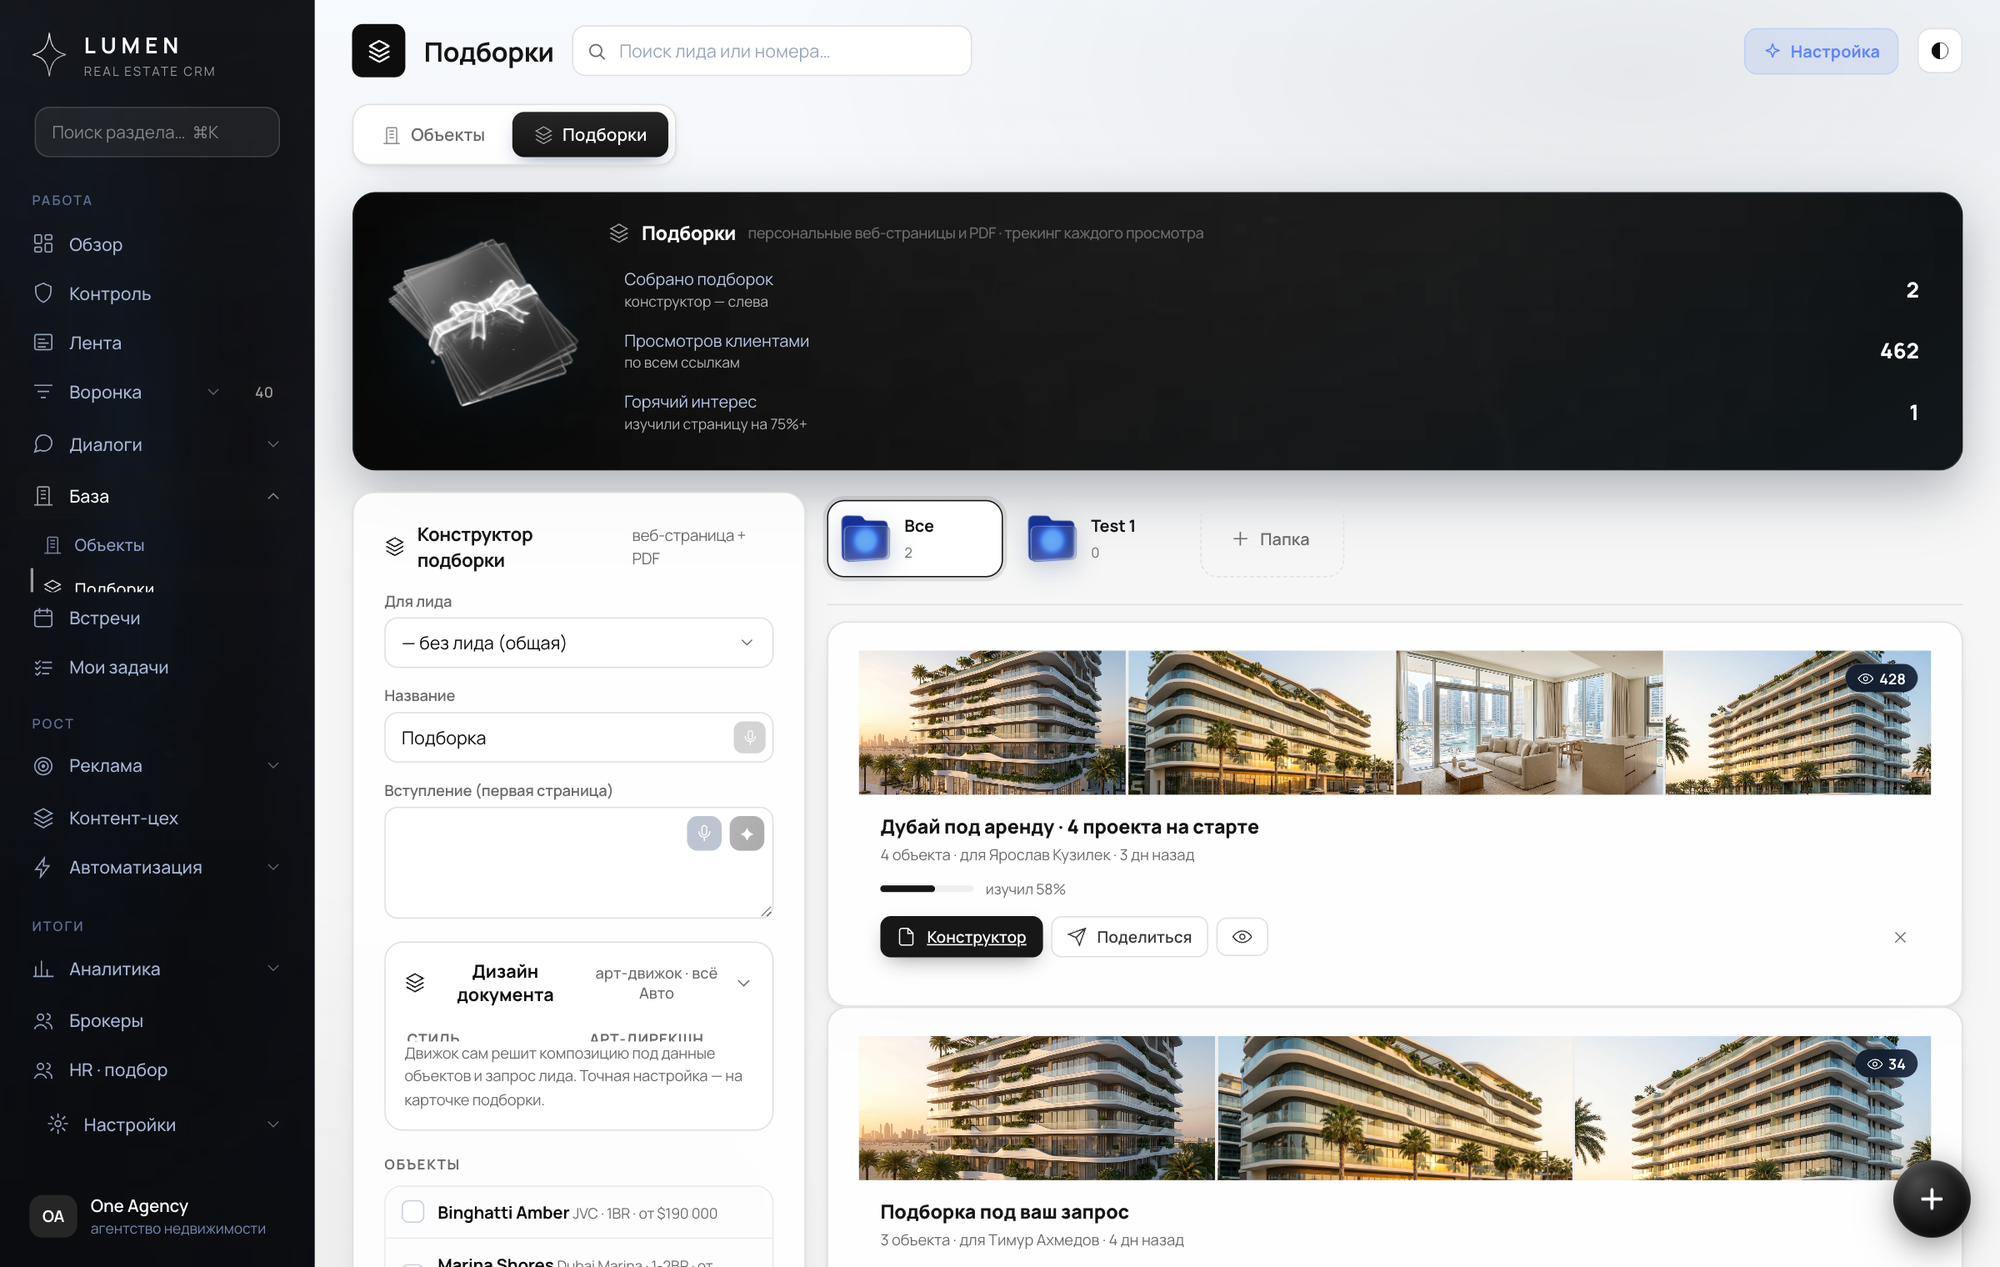
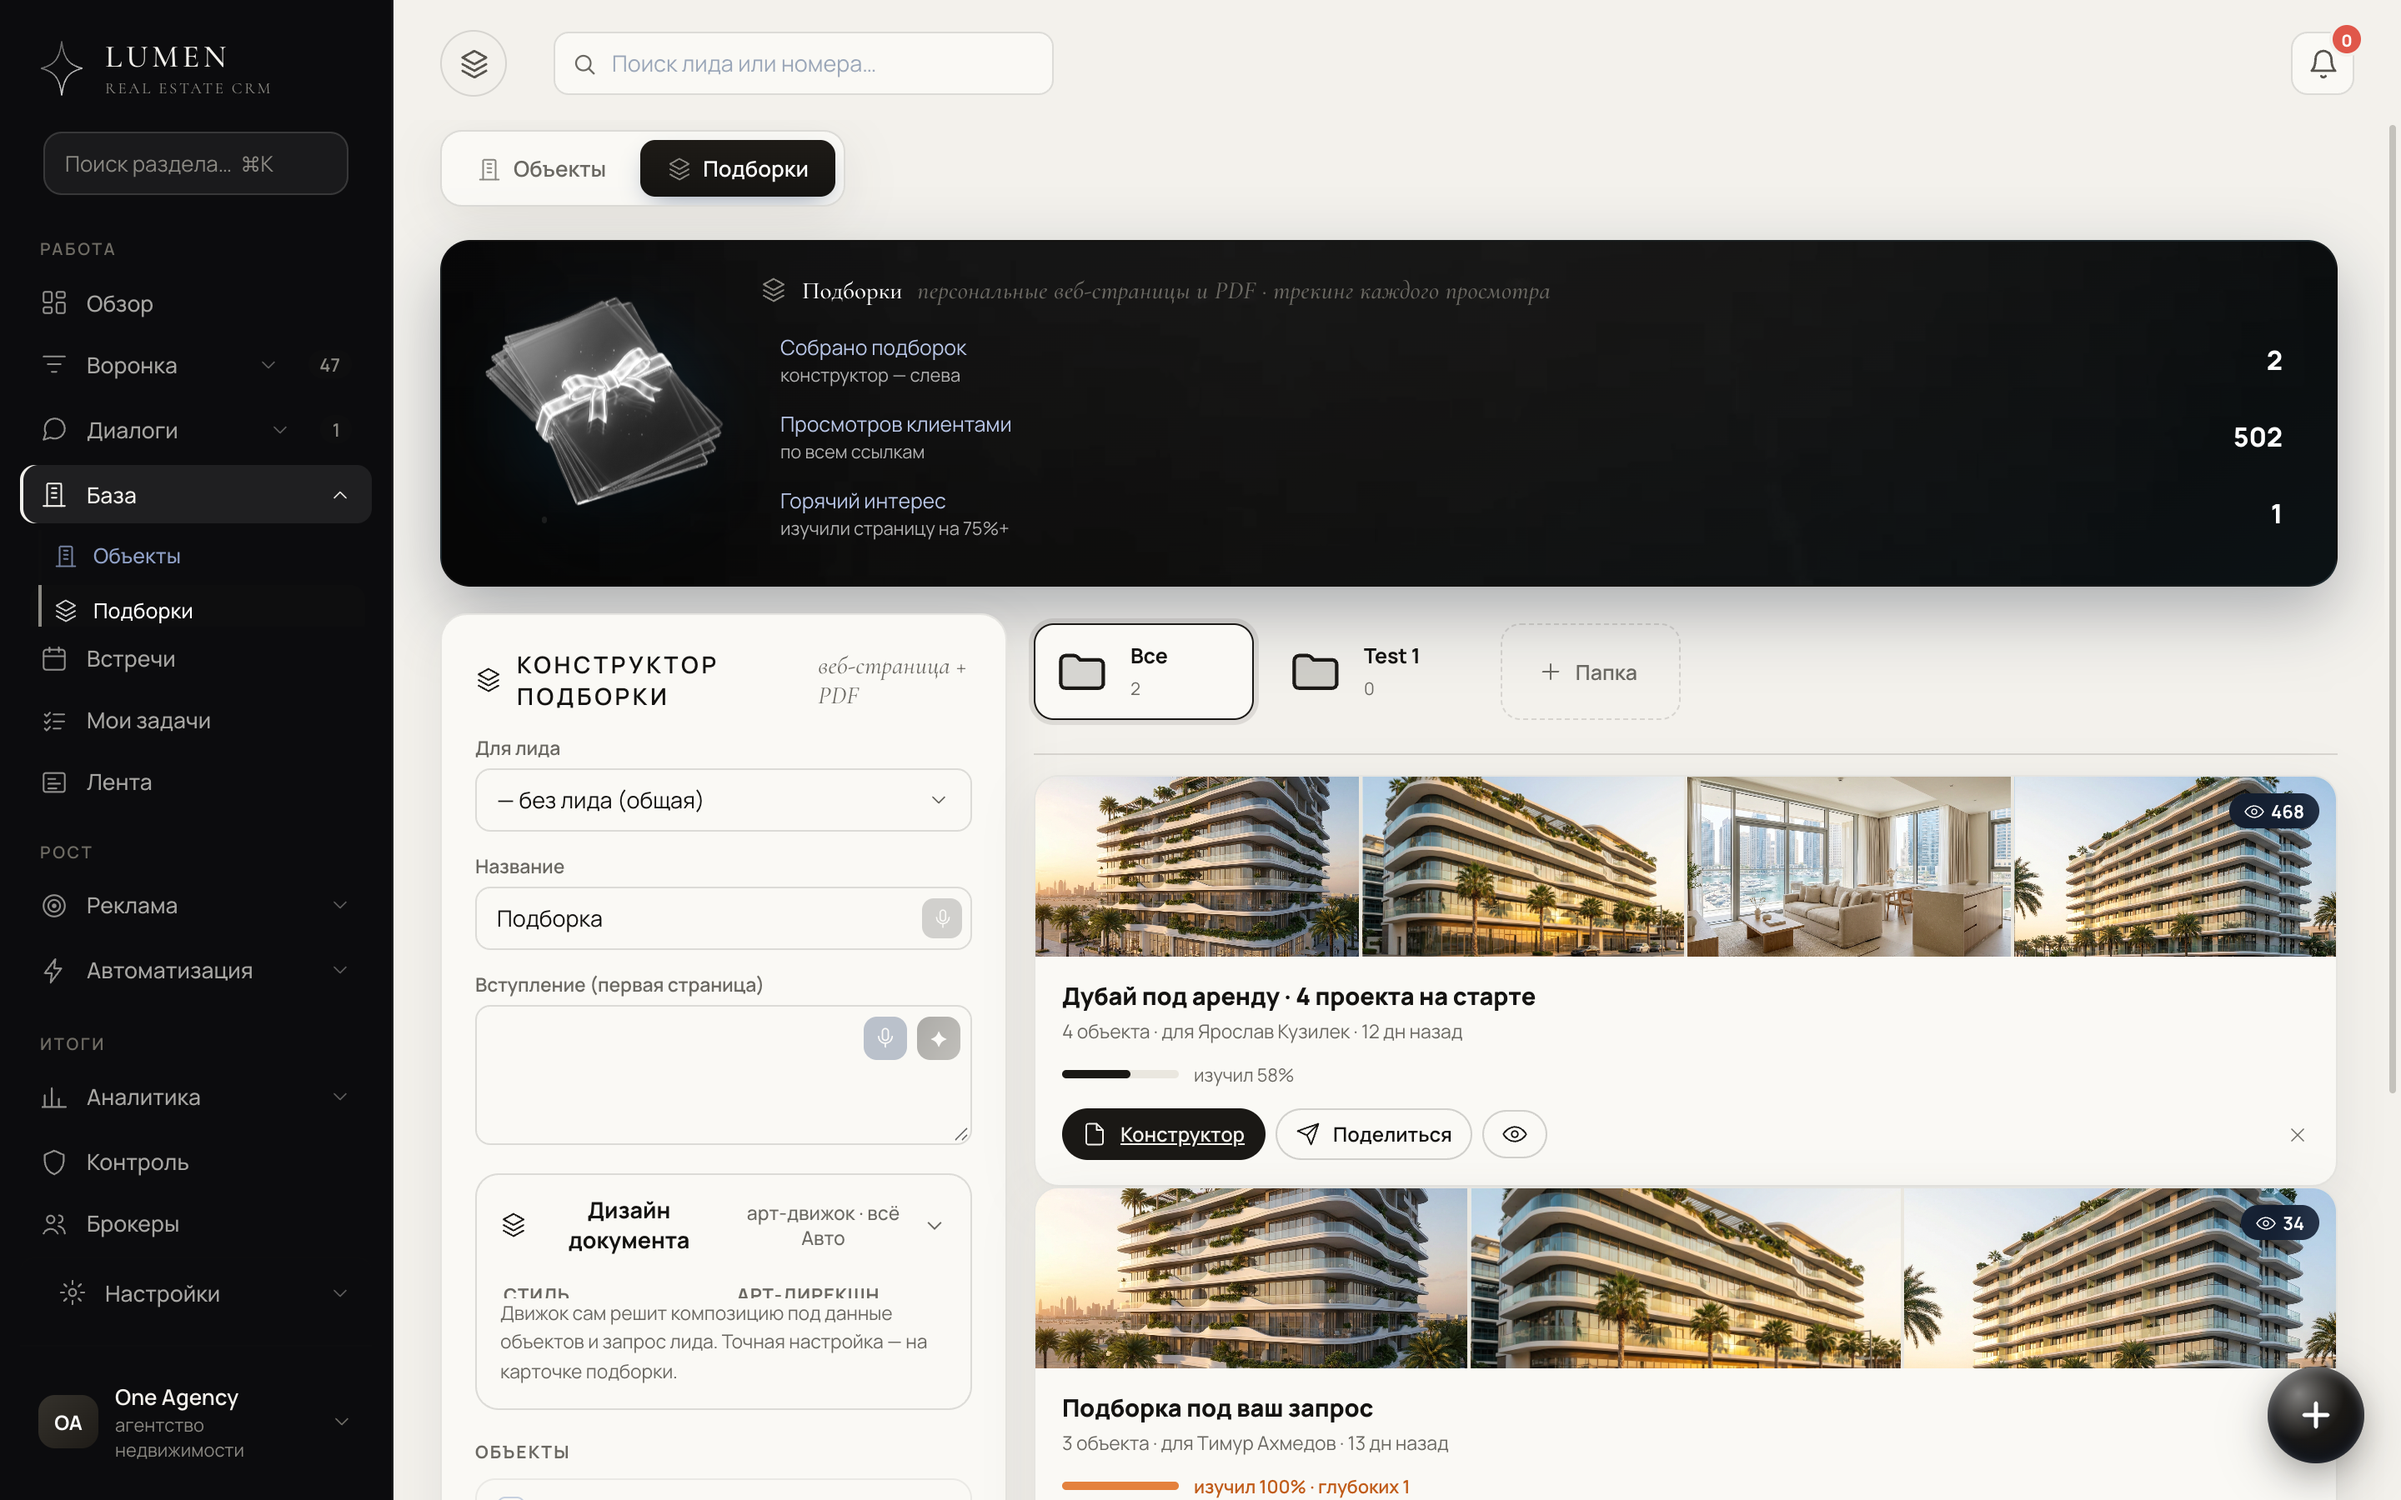
fix(crypto auto-verify): TronGrid API-ключ (Railway режется без него) + админ-настройка ключей без редеплоя; онбординг: живые скриншоты в теме Ателье
- index.js: tronFetchOpts шлёт TRON-PRO-API-KEY (env TRON_API_KEY или реестр) на обе TronGrid-выборки (тик + сверка) → авто-зачисление на проде работает
- admin: /api/admin/crypto-keys (GET статус / POST ключи tron+etherscan в реестр) + UI-форма и статус в блоке «Крипто-платежи»
- онбординг: theme-atelier.png + cap-ai/collections/dialogs/sequences пересняты из ЖИВОЙ CRM в теме Ателье (крем+serif+тёмный сайдбар); ?v=atl кэш-бас; onboard v37

diff --git a/server/index.js b/server/index.js
@@ -2639,6 +2639,10 @@ const CRYPTO_TRON = process.env.CRYPTO_TRON_ADDRESS || 'TKsspQfKNJvcREryLtMG1Hsx
 const CRYPTO_ETH  = process.env.CRYPTO_ETH_ADDRESS  || '0x6dc20b29ea59fd722e752e65cd0c0059ee5c3b25';
 const USDT_TRC20  = 'TR7NHqjeKQxGTCi8q8ZY4pL8otSzgjLj6t';   /* USDT (Tron) контракт */
 const USDT_ERC20  = '0xdac17f958d2ee523a2206206994597c13d831ec7'; /* USDT (Ethereum) контракт */
+/* TronGrid с датацентр-IP (Railway) без ключа режется рейт-лимитом → пустой ответ → авто-зачисление не срабатывает.
+   Бесплатный ключ trongrid.io передаём заголовком TRON-PRO-API-KEY. Ключ из env или реестра (задаётся в админке). */
+function tronApiKey() { try { return process.env.TRON_API_KEY || process.env.TRONGRID_API_KEY || ((store.getRegistry().platformCrypto || {}).tronKey) || ''; } catch (e) { return ''; } }
+function tronFetchOpts(ms) { const k = tronApiKey(); return { signal: AbortSignal.timeout(ms || 12000), headers: k ? { 'TRON-PRO-API-KEY': k } : {} }; }
 /* ============ СИСТЕМА УВЕДОМЛЕНИЙ ============
    Единый notify(): кладёт в in-app центр (db.settings.notifications) + жёстко шлёт на почту владельцу
    (branded email) + best-effort в Telegram владельца. Каналы можно выключить пер-вызов.
@@ -2753,7 +2757,7 @@ async function cryptoTick() {
     }
     if (anyTrc) {
       try {
-        const r = await fetch(`https://api.trongrid.io/v1/accounts/${CRYPTO_TRON}/transactions/trc20?only_to=true&limit=50&contract_address=${USDT_TRC20}`, { signal: AbortSignal.timeout(12000) });
+        const r = await fetch(`https://api.trongrid.io/v1/accounts/${CRYPTO_TRON}/transactions/trc20?only_to=true&limit=50&contract_address=${USDT_TRC20}`, tronFetchOpts(12000));
         const j = await r.json().catch(() => ({}));
         trcTx = (j.data || []).map(tx => ({ txid: tx.transaction_id, amt: Number(tx.value || 0) / 1e6, ts: Number(tx.block_timestamp || 0) })).filter(x => x.txid && x.amt > 0);
       } catch (e) {}
@@ -4986,7 +4990,7 @@ const server = http.createServer(async (req, res) => {
         // ── ончейн-выборка ──
         let trcTx = [], ercTx = [];
         try {
-          const r = await fetch(`https://api.trongrid.io/v1/accounts/${CRYPTO_TRON}/transactions/trc20?only_to=true&limit=100&contract_address=${USDT_TRC20}`, { signal: AbortSignal.timeout(15000) });
+          const r = await fetch(`https://api.trongrid.io/v1/accounts/${CRYPTO_TRON}/transactions/trc20?only_to=true&limit=100&contract_address=${USDT_TRC20}`, tronFetchOpts(15000));
           const j = await r.json().catch(() => ({}));
           trcTx = (j.data || []).map(tx => ({ txid: tx.transaction_id, amt: Number(tx.value || 0) / 1e6, ts: Number(tx.block_timestamp || 0) })).filter(x => x.txid && x.amt > 0);
         } catch (e) { out.trcError = e.message; }
@@ -5079,6 +5083,21 @@ const server = http.createServer(async (req, res) => {
           } else out = { ok: false, error: 'уже зачтено (идемпотентность)' };
         });
         return json(res, 200, out);
+      }
+      /* ключи для авто-верификации крипты (TronGrid обязателен на Railway; Etherscan — для ERC20). Хранятся в реестре, без редеплоя. */
+      if (p === '/api/admin/crypto-keys' && req.method === 'GET') {
+        const pc = store.getRegistry().platformCrypto || {};
+        return json(res, 200, { ok: true,
+          tronKeySet: !!(process.env.TRON_API_KEY || process.env.TRONGRID_API_KEY || pc.tronKey), tronViaEnv: !!(process.env.TRON_API_KEY || process.env.TRONGRID_API_KEY),
+          etherscanKeySet: !!(process.env.ETHERSCAN_KEY || pc.etherscanKey), etherscanViaEnv: !!process.env.ETHERSCAN_KEY });
+      }
+      if (p === '/api/admin/crypto-keys' && req.method === 'POST') {
+        const b = await readBody(req).catch(() => ({}));
+        const reg2 = store.getRegistry(); reg2.platformCrypto = reg2.platformCrypto || {};
+        if (typeof b.tronKey === 'string') reg2.platformCrypto.tronKey = b.tronKey.trim();
+        if (typeof b.etherscanKey === 'string') reg2.platformCrypto.etherscanKey = b.etherscanKey.trim();
+        store.saveRegistry();
+        return json(res, 200, { ok: true });
       }
       if (p === '/api/admin/briefs' && req.method === 'GET') { return json(res, 200, { ok: true, briefs: (reg.briefs || []).slice(0, 100) }); }
       if (p === '/api/admin/brief-status' && req.method === 'POST') { const b = await readBody(req); const br = (reg.briefs || []).find(x => x.id === b.id); if (br) { br.status = ['new', 'progress', 'done'].includes(b.status) ? b.status : br.status; store.saveRegistry(); } return json(res, 200, { ok: true }); }

diff --git a/public/admin.html b/public/admin.html
@@ -224,7 +224,8 @@
     </div>
     <div class="card" style="margin-top:14px">
       <div class="row" style="justify-content:space-between"><b>Крипто-платежи</b><span><button class="ghost" id="cryTopups">Обновить</button> <button class="ghost" id="cryReconcile">Сверить ончейн</button></span></div>
-      <div class="muted" style="font-size:12.5px;margin-top:6px">Незачтённые заявки клиентов. «Зачислить» — если клиент реально оплатил (сверь сумму/txid в блокчейне): подписку активирует, расходники кладёт на баланс. Идемпотентно. «Сверить ончейн» — авто-поиск платежа по сумме (если Railway достаёт TronGrid/Etherscan).</div>
+      <div class="muted" style="font-size:12.5px;margin-top:6px">Авто-зачисление раз в минуту. Для работы на проде нужен ключ TronGrid (без него Railway режется рейт-лимитом). Клиент оплатил → зачислится само.</div>
+      <div id="cryKeys" style="margin-top:10px;padding:10px 12px;border:1px solid var(--line);border-radius:10px;font-size:12.5px"></div>
       <div id="cryTopupList" style="margin-top:12px;font-size:13px"></div>
       <details style="margin-top:12px"><summary class="muted" style="cursor:pointer;font-size:12.5px">Ручное зачисление (если заявки нет в списке)</summary>
         <div style="display:grid;grid-template-columns:1fr 1fr;gap:8px;margin-top:10px">
@@ -270,7 +271,7 @@ document.querySelectorAll('.tabs button').forEach(b => b.addEventListener('click
   if (b.dataset.tab === 'map') renderMap();
   if (b.dataset.tab === 'release') loadRelease();
   if (b.dataset.tab === 'support') loadSupport();
-  if (b.dataset.tab === 'invoices') { loadInvoices(); loadCryptoTopups(); }
+  if (b.dataset.tab === 'invoices') { loadInvoices(); loadCryptoTopups(); loadCryptoKeys(); }
   if (b.dataset.tab === 'briefs') loadBriefs();
 }));
 
@@ -342,6 +343,30 @@ async function loadInvoices() {
   } catch (e) { host.innerHTML = '<span class="muted">Ошибка загрузки</span>'; }
 }
 document.addEventListener('click', (e) => { if (e.target && e.target.id === 'invReload') loadInvoices(); });
+
+// ── Крипто: ключи авто-верификации ──
+async function loadCryptoKeys() {
+  const host = $('#cryKeys'); if (!host) return;
+  try {
+    const r = await api('/api/admin/crypto-keys');
+    const dot = (on) => `<b style="color:${on ? 'var(--good,#3f9d5a)' : 'var(--bad,#d66)'}">${on ? '✓ задан' : '✗ нет'}</b>`;
+    host.innerHTML = `<div style="margin-bottom:8px">TronGrid (TRC20): ${dot(r.tronKeySet)}${r.tronViaEnv ? ' <span class="muted">(env)</span>' : ''} · Etherscan (ERC20): ${dot(r.etherscanKeySet)}${r.etherscanViaEnv ? ' <span class="muted">(env)</span>' : ''}</div>
+      <div style="display:flex;gap:8px;flex-wrap:wrap">
+        <input id="ckTron" placeholder="TronGrid API key (trongrid.io — бесплатно)" style="flex:1;min-width:180px">
+        <input id="ckEth" placeholder="Etherscan API key (для ERC20)" style="flex:1;min-width:180px">
+        <button id="ckSave">Сохранить ключи</button>
+      </div>
+      <div class="muted" style="font-size:11.5px;margin-top:6px">Получить TronGrid-ключ: trongrid.io → Sign up → API Keys → Create. Вставь сюда — авто-зачисление заработает сразу, без редеплоя.</div>`;
+  } catch (e) { host.innerHTML = '<span class="muted">Ошибка загрузки ключей</span>'; }
+}
+document.addEventListener('click', async (e) => {
+  if (!e.target || e.target.id !== 'ckSave') return;
+  const tronKey = $('#ckTron').value.trim(), etherscanKey = $('#ckEth').value.trim();
+  e.target.disabled = true; e.target.textContent = 'Сохраняю…';
+  try { await api('/api/admin/crypto-keys', { method: 'POST', body: JSON.stringify({ ...(tronKey ? { tronKey } : {}), ...(etherscanKey ? { etherscanKey } : {}) }) }); loadCryptoKeys(); }
+  catch (err) { alert(err.message); }
+  e.target.disabled = false; e.target.textContent = 'Сохранить ключи';
+});
 
 // ── Крипто-платежи: список незачтённых заявок + ручное зачисление ──
 const cryMoney = (n) => '$' + Number(n || 0).toLocaleString('en-US', { minimumFractionDigits: 2, maximumFractionDigits: 2 });

diff --git a/public/onboard.js b/public/onboard.js
@@ -67,7 +67,7 @@
     { k: 'concise', name: 'Короткая и деловая', ex: '«Принял. Бюджет и цель покупки? Пришлю 3 варианта под вас в течение часа.»', tone: 'короткая, деловая, без воды; быстрые чёткие сообщения' },
   ];
   // иллюстрации к шагам-фичам
-  const SHOT = (n) => '/assets/site/cap-' + n + '.png';
+  const SHOT = (n) => '/assets/site/cap-' + n + '.png?v=atl';   /* ?v — кэш-бас после пересъёмки в теме Ателье */
   // золотой эмблем-мотив на шапке каждого шага (в связке с обложками писем)
   const EMBLEM = { edition: 'building', style: 'palette', brand: 'spark', geos: 'globe', team: 'users', tone: 'chat', whatsapp: 'chat', chains: 'bolt', listings: 'grid', control: 'shield', more: 'star', pricing: 'star', finish: 'check' };
 
@@ -174,7 +174,7 @@
             <div class="ob-theme-meta"><b>${t.name}</b><span>${t.desc}</span></div>
           </div>
           <div class="ob-theme-back" data-grad="linear-gradient(140deg, ${t.sw[1]}, ${t.sw[0]})" style="background:linear-gradient(140deg, ${t.sw[1]}, ${t.sw[0]})">
-            <img src="/assets/theme-${t.key}.png" alt="" loading="lazy" onerror="this.style.display='none'">
+            <img src="/assets/theme-${t.key}.png?v=atl" alt="" loading="lazy" onerror="this.style.display='none'">
             <div class="ob-theme-back-lbl">Интерфейс · ${t.name}</div>
           </div>
         </div>

diff --git a/public/index.html b/public/index.html
@@ -117,7 +117,7 @@
 </div>
 <div class="toasts" id="toasts"></div>
 <script src="app.js?v=374"></script>
-<script src="onboard.js?v=36"></script>
+<script src="onboard.js?v=37"></script>
 <script src="tour.js?v=4"></script>
 </body>
 </html>
